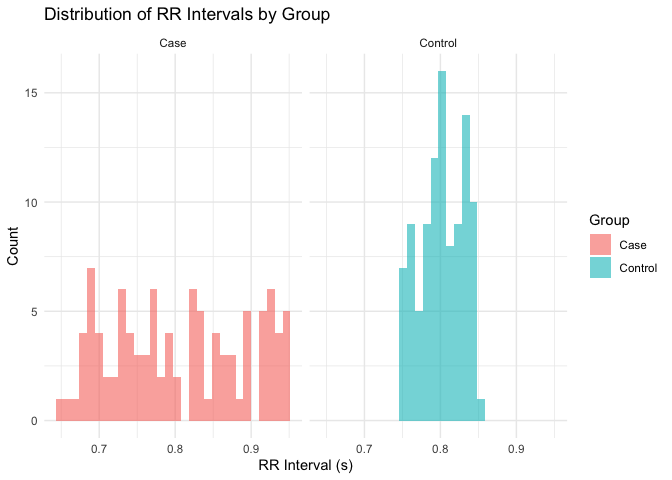
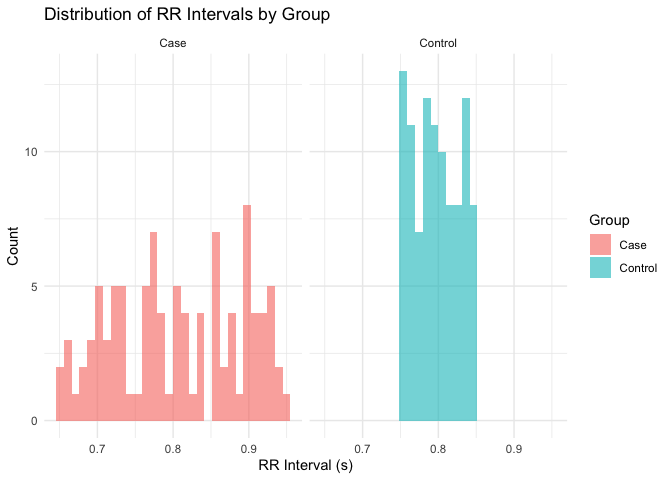
Markdown to project README.md

diff --git a/README.md b/README.md
@@ -228,8 +228,8 @@ head(hrv_summary)
     ## # A tibble: 2 × 4
     ##   Group   Mean_RR   SDNN  RMSSD
     ##   <chr>     <dbl>  <dbl>  <dbl>
-    ## 1 Case      0.805 0.0846 0.120 
-    ## 2 Control   0.797 0.0303 0.0390
+    ## 1 Case      0.806 0.0883 0.128 
+    ## 2 Control   0.802 0.0289 0.0405
 
 - Plot HRV data showing RR interval variability between groups
 
@@ -280,7 +280,7 @@ print(shapiro_test_control)
     ##  Shapiro-Wilk normality test
     ## 
     ## data:  hrv_data$RR_Interval[hrv_data$Group == "Control"]
-    ## W = 0.941, p-value = 0.0002219
+    ## W = 0.9514, p-value = 0.001027
 
 ``` r
 print(shapiro_test_case)
@@ -290,7 +290,7 @@ print(shapiro_test_case)
     ##  Shapiro-Wilk normality test
     ## 
     ## data:  hrv_data$RR_Interval[hrv_data$Group == "Case"]
-    ## W = 0.95213, p-value = 0.001149
+    ## W = 0.94141, p-value = 0.0002353
 
 - Decision on statistical test based on normality assessment
 - If normality is not rejected, use t-test; otherwise, consider
@@ -307,13 +307,13 @@ print(t_test_result)
     ##  Welch Two Sample t-test
     ## 
     ## data:  RR_Interval by Group
-    ## t = 0.91009, df = 123.96, p-value = 0.3645
+    ## t = 0.44795, df = 120.02, p-value = 0.655
     ## alternative hypothesis: true difference in means between group Case and group Control is not equal to 0
     ## 95 percent confidence interval:
-    ##  -0.00960885  0.02596676
+    ##  -0.01423971  0.02256698
     ## sample estimates:
     ##    mean in group Case mean in group Control 
-    ##              0.805388              0.797209
+    ##             0.8061329             0.8019692
 
 ## Covariate data
 
@@ -335,12 +335,12 @@ head(hrv_data)
 ```
 
     ##   RR_Interval   Group Sample Age_day Sex Treatment
-    ## 1   0.7783174 Control      1      30   1         b
-    ## 2   0.7554708 Control      2      14   1         a
-    ## 3   0.7506087 Control      3      50   1         b
-    ## 4   0.8044246 Control      4      13   0         b
-    ## 5   0.7518773 Control      5       2   0         b
-    ## 6   0.7539838 Control      6      41   1         a
+    ## 1   0.8279636 Control      1      30   1         b
+    ## 2   0.8143300 Control      2      14   1         a
+    ## 3   0.8198734 Control      3      50   1         b
+    ## 4   0.7569344 Control      4      13   0         b
+    ## 5   0.7981791 Control      5       2   0         b
+    ## 6   0.7765258 Control      6      41   1         a
 
 ## Gneralised linear model (GLM)
 
@@ -367,24 +367,24 @@ summary(glm_model)
     ## 
     ## Deviance Residuals: 
     ##       Min         1Q     Median         3Q        Max  
-    ## -0.157205  -0.035246  -0.001313   0.039479   0.152591  
+    ## -0.149301  -0.037208   0.001471   0.037208   0.144497  
     ## 
     ## Coefficients:
     ##                Estimate Std. Error t value Pr(>|t|)    
-    ## (Intercept)   0.8067797  0.0134984  59.768   <2e-16 ***
-    ## GroupControl -0.0068526  0.0091845  -0.746    0.457    
-    ## Age_day      -0.0001670  0.0002813  -0.593    0.554    
-    ## Sex1         -0.0076720  0.0092177  -0.832    0.406    
-    ## Treatmentb    0.0087743  0.0115372   0.761    0.448    
-    ## Treatmentc    0.0083698  0.0116025   0.721    0.472    
+    ## (Intercept)   0.8011963  0.0139504  57.432   <2e-16 ***
+    ## GroupControl -0.0052675  0.0094920  -0.555    0.580    
+    ## Age_day       0.0000699  0.0002907   0.240    0.810    
+    ## Sex1          0.0130778  0.0095263   1.373    0.171    
+    ## Treatmentb   -0.0036929  0.0119235  -0.310    0.757    
+    ## Treatmentc   -0.0025624  0.0119909  -0.214    0.831    
     ## ---
     ## Signif. codes:  0 '***' 0.001 '**' 0.01 '*' 0.05 '.' 0.1 ' ' 1
     ## 
-    ## (Dispersion parameter for gaussian family taken to be 0.00408141)
+    ## (Dispersion parameter for gaussian family taken to be 0.00435928)
     ## 
-    ##     Null deviance: 0.80293  on 199  degrees of freedom
-    ## Residual deviance: 0.79179  on 194  degrees of freedom
-    ## AIC: -524.78
+    ##     Null deviance: 0.85619  on 199  degrees of freedom
+    ## Residual deviance: 0.84570  on 194  degrees of freedom
+    ## AIC: -511.61
     ## 
     ## Number of Fisher Scoring iterations: 2
 
@@ -498,14 +498,3 @@ characteristics:
 - **`simulate_rr_intervals_group`**: Generates RR intervals for a
   specified group, incorporating baseline RR intervals and variability,
   useful for simulating control and case groups in our analysis.
-
-### README
-
-Finally, automatically convert this document to the GitHub project level
-README.
-
-``` r
-file.copy("ecg_vcurrent.md", "README.md", overwrite = TRUE)
-```
-
-    ## [1] TRUE
